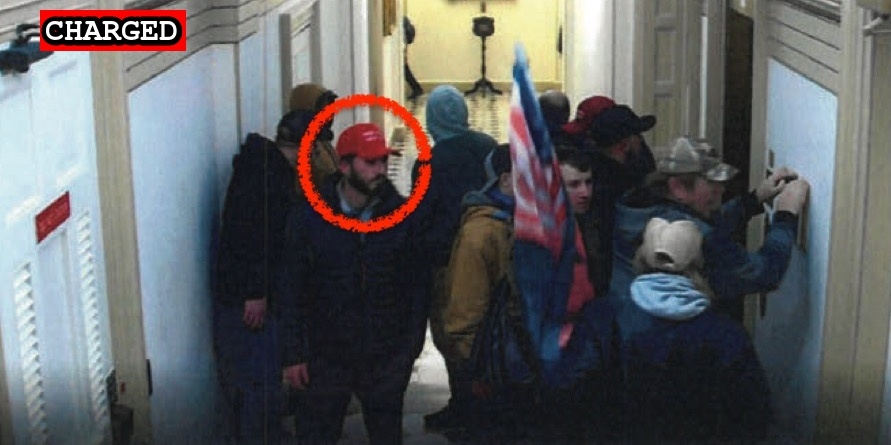
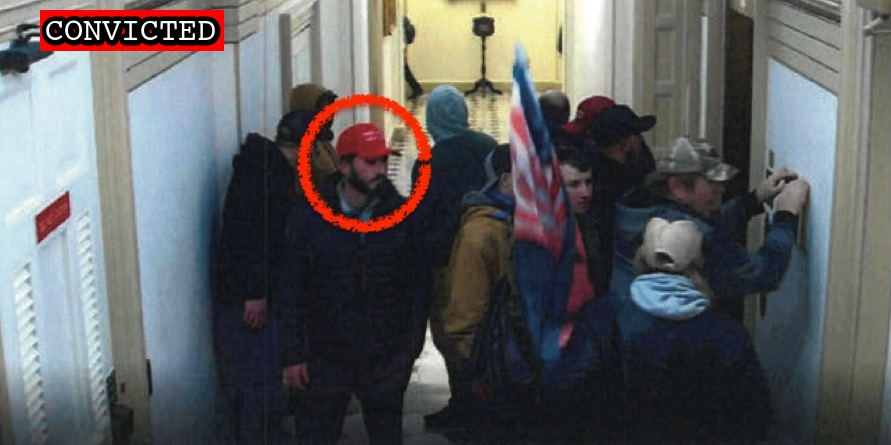
Additional conviction

Changed region(s): [[0.0303, 0.0, 0.2727, 0.1169]]

diff --git a/docs/_suspects/kerry-persick.md b/docs/_suspects/kerry-persick.md
@@ -4,15 +4,17 @@ lastName: Persick
 hashtag: KerryPersick
 aka:
 residence: Texas
-status: Charged
+status: Convicted
 date: 2021-05-13
 charged: 2021-05-13
 indicted:
-convicted:
+convicted: 2022-04-22
+acquitted:
 sentenced:
 dismissed:
 deceased:
-plea_hearing:
+plea_hearing: 2022-04-22
+trial_date:
 sentencing:
 age: 41
 occupation:
@@ -34,6 +36,10 @@ published: true
 caseNumber:
 videos:
 charges:
+- code: 40 USC § 5104(e)(2)(G)
+  title: Parading, demonstrating or picketing in a Capitol building
+  url: https://www.law.cornell.edu/uscode/text/40/5104
+  felony: false
 sentence:
 ---
 - [News Report](https://www.dallasnews.com/news/crime/2021/05/18/tarrant-county-man-recorded-video-from-inside-us-capitol-during-mob-siege-feds-say/)
